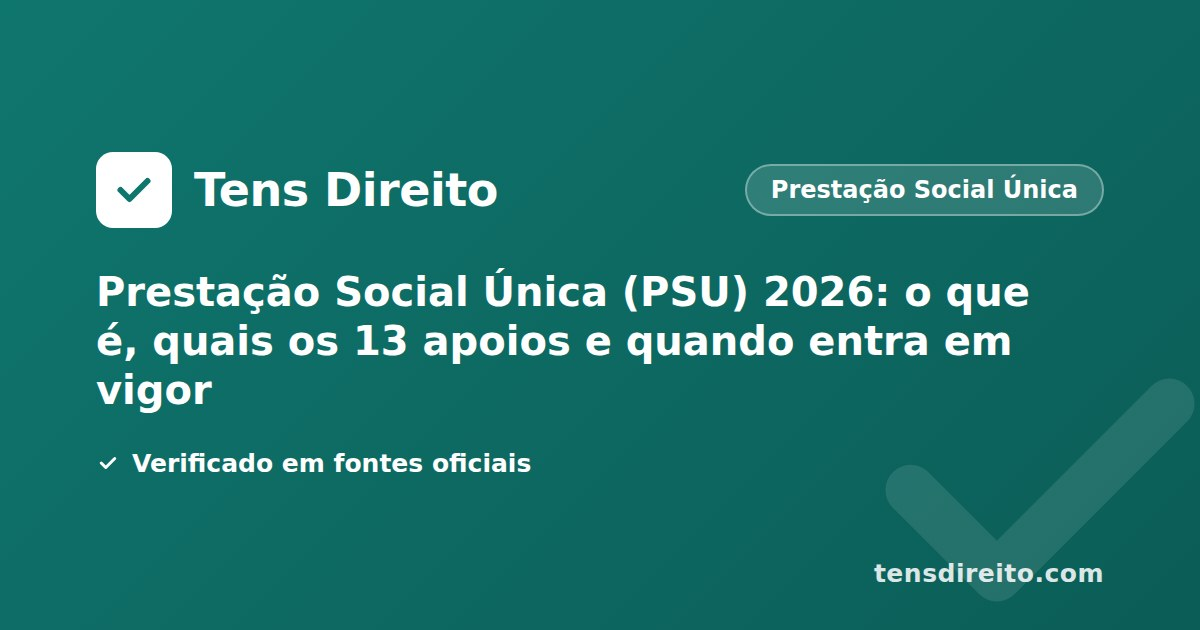
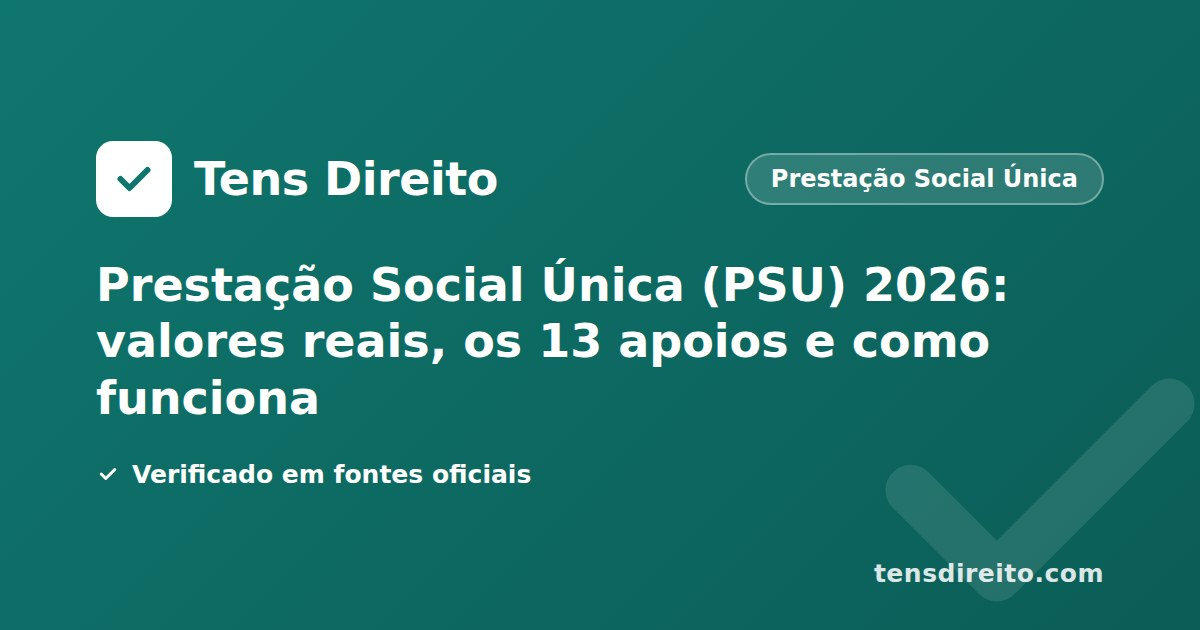
fix: regenerar imagens OG das páginas PSU com títulos alterados (Commit 1 fixup)
python scripts/gerar_og_images.py --write — os 5 títulos alterados no
Commit 1 (prestacao-social-unica, psu-lista-13-apoios,
psu-quando-entra-em-vigor, psu-quem-tem-direito, psu-trabalho-social)
tinham deixado a imagem de partilha social desactualizada, apanhado por
tests/test_og_image.py::test_manifest_sincronizado_com_titulo_actual na
suite completa. 3 páginas ganharam também og:image:alt actualizado para
bater com o novo título.

Suite completa: 3141 passed, 4 skipped (0 failed).

Claude-Session: https://claude.ai/code/session_01SAHTrZNa1JV1f43i941moy

diff --git a/prestacao-social-unica.html b/prestacao-social-unica.html
@@ -25,7 +25,7 @@
   <meta property="og:image" content="https://tensdireito.com/assets/img/og/prestacao-social-unica.jpg">
   <meta property="og:image:width" content="1200">
   <meta property="og:image:height" content="630">
-  <meta property="og:image:alt" content="Prestação Social Única (PSU) 2026: o que é, quais os 13 apoios e quando entra em vigor">
+  <meta property="og:image:alt" content="Prestação Social Única (PSU) 2026: valores reais, os 13 apoios e como funciona">
   <meta name="twitter:card" content="summary_large_image">
 
   <!-- JSON-LD FAQPage -->

diff --git a/psu-lista-13-apoios.html b/psu-lista-13-apoios.html
@@ -25,7 +25,7 @@
   <meta property="og:image" content="https://tensdireito.com/assets/img/og/psu-lista-13-apoios.jpg">
   <meta property="og:image:width" content="1200">
   <meta property="og:image:height" content="630">
-  <meta property="og:image:alt" content="As 13 prestações que a PSU vai substituir (lista completa)">
+  <meta property="og:image:alt" content="As 13 prestações que a PSU substitui (lista completa, DL 166/2026)">
   <meta name="twitter:card" content="summary_large_image">
 
   <script type="application/ld+json">

diff --git a/psu-trabalho-social.html b/psu-trabalho-social.html
@@ -25,7 +25,7 @@
   <meta property="og:image" content="https://tensdireito.com/assets/img/og/psu-trabalho-social.jpg">
   <meta property="og:image:width" content="1200">
   <meta property="og:image:height" content="630">
-  <meta property="og:image:alt" content="Trabalho social na PSU 2026: aprovado vs. por definir">
+  <meta property="og:image:alt" content="Trabalho social na PSU 2026: obrigatório, com excepções">
   <meta name="twitter:card" content="summary_large_image">
 
   <script type="application/ld+json">
